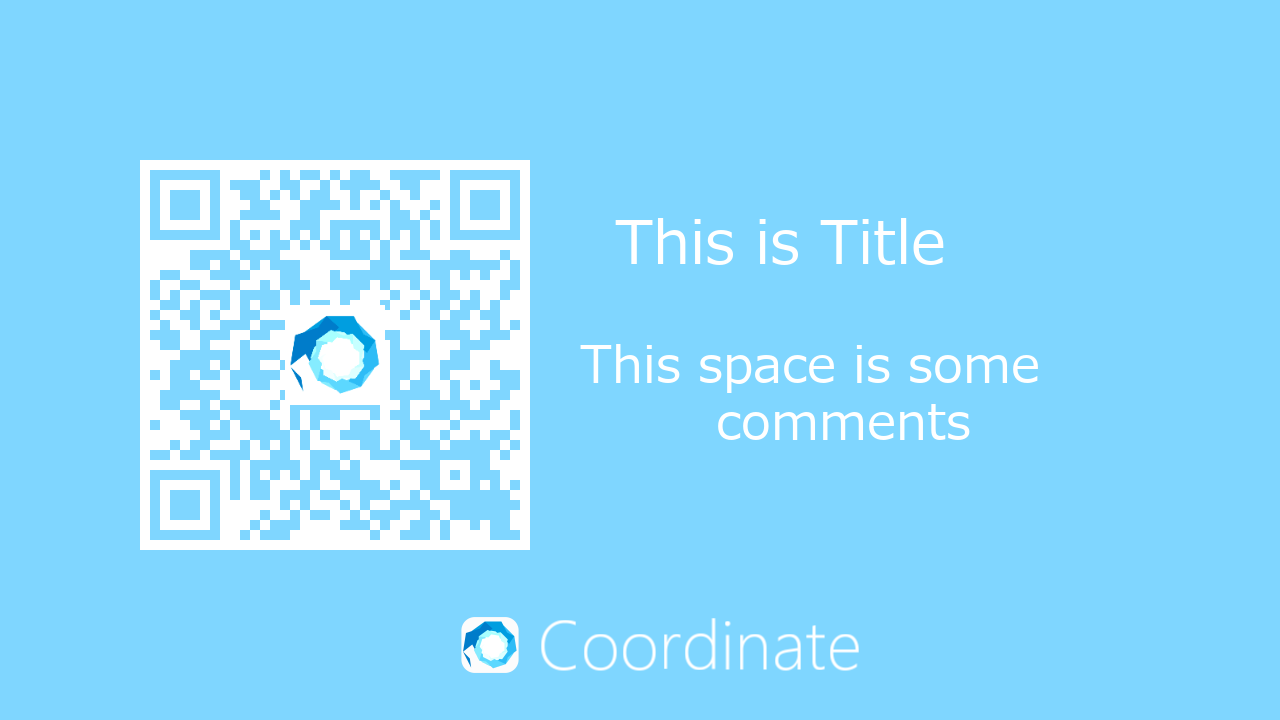
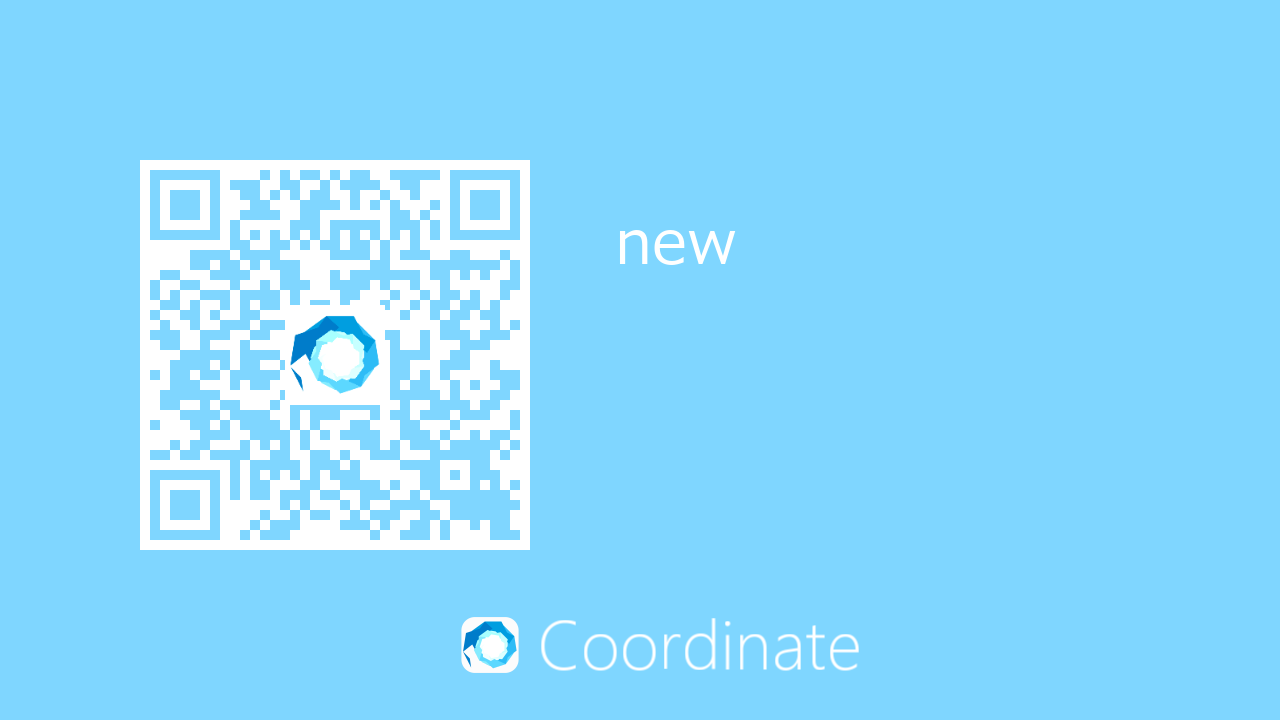
1

Changed region(s): [[0.4375, 0.4583, 0.8125, 0.6111], [0.4688, 0.3056, 0.75, 0.3667]]

diff --git a/templates/qr_page.html b/templates/qr_page.html
@@ -22,7 +22,7 @@
         <!-- <img src="{{ url_for('static', filename='unique_card.png') }}" alt="qr"> -->
     </p>
     <div class="wrap">
-        <img id="img1" class="img-thumbnail" src="../static/unique_card.png" alt="qr">
+        <img id="img1" class="img-thumbnail" src="{{ url_for('static', filename='unique_card.png')}}" alt="qr">
         <div class="sns-area">
             <a href="" id="tw-btn"><i id="icon1" class="fab fa-twitter fa-3x"></i></a>
             <a href="" id="fb-btn"><i id="icon2" class="fab fa-facebook-square fa-3x"></i></a>
@@ -34,16 +34,19 @@
         <input type="text" id="comment" value="{{ result[3] }}">
     </div>
     <script>
-        var url = location.href;
-        var title = document.getElementById("title").value;
-        var comment = document.getElementById("comment").value;
-        var twitter = document.getElementById("tw-btn").value;
-        var fb = document.getElementById("fb-btn").value;
-        var line = document.getElementById("li-btn").value;
+        window.onload = function () {
+            var url = location.href;
+            var title = document.getElementById("title").value;
+            var comment = document.getElementById("comment").value;
+            var twitter = document.getElementById("tw-btn").value;
+            var fb = document.getElementById("fb-btn").value;
+            var line = document.getElementById("li-btn").value;
+            
+            twitter.href = "https://twitter.com/share?text="+title+"&url="+url;
+            fb.href = "http://www.facebook.com/share.php?u="+url;
+            line.href = "https://line.me/R/msg/text/?"+title+url;            
+        };
 
-        twitter.href = "https://twitter.com/share?text="+title+"&url="+url;
-        fb.href = "http://www.facebook.com/share.php?u="+url;
-        line.href = "https://line.me/R/msg/text/?"+title+url;
     </script>
 </body>
 </html>

diff --git a/static/qr.css b/static/qr.css
@@ -26,7 +26,70 @@
     color: rgb(43, 174, 226);
 }
 
-.container{
+#img1{
+    float: left;
+    margin-top: 90px;
+    margin-left: 20px;
+}
+
+.sns-area{
     display: flex;
-    margin-top: 100px;
+    flex-flow: column;
+}
+
+#icon1, #icon2, #icon3{
+    background-color: rgb(255, 255, 255);
+    box-shadow: 0 10px 25px 0 rgba(0, 0, 0, .2);
+    height: 100px;
+    width: 400px;
+    margin-top: 150px;
+    margin-left: 50px;
+    text-align: center;
+    padding-top: 20px;
+    border-radius: 7px;
+    color: rgb(32, 32, 32);
+}
+
+#icon1:hover, #icon2:hover, #icon3:hover{
+    color: rgb(43, 174, 226);
+}
+
+.form-none{
+    display: none;
+}
+
+@media(max-width: 1760px){
+    .sns-area{
+        display:flex;
+        flex-direction: row;
+    }
+    .wrap{
+        display: flex;
+        flex-flow: column;
+    }
+    .img-thumbnail{
+        max-width: 76%;
+    }
+    #img1{
+        margin-left: auto;
+        margin-right: auto; 
+    }
+}
+
+@media(max-width:1280px){
+    .sns-area{
+        flex-flow: column;
+        text-align: center;
+    }
+    #img1{
+        margin-left: auto;
+        margin-right: auto; 
+    }
+}
+
+@media(max-width:430px){
+    #icon1, #icon2, #icon3{
+        margin: 10px;
+        width: 100%;
+    }
 }

diff --git a/templates/qr.css b/templates/qr.css
@@ -62,6 +62,7 @@
     .sns-area{
         display:flex;
         flex-direction: row;
+        text-align: center;
     }
     .wrap{
         display: flex;

diff --git a/main_2.py b/main_2.py
@@ -160,7 +160,7 @@ def id_qr():
         img_qr_big.save('./static/qr_img.png')
 
 
-    def insert_text():    
+    def insert_text(title,comment):    
         #読み込み
         base_img = Image.open(base_path).copy()
         qr_img = Image.open(qr_path).copy()
@@ -181,15 +181,14 @@ def id_qr():
         
             return img
         
-        text = "This is Title"
+        text = title
         font_size = 60
         font_color = (255, 255, 255)
         height = 200
         width = 615
         img = add_text_to_image(base_img, text, font_path, font_size, font_color, height, width)
         
-        text = """This space is some 
-        comments"""
+        text = comment
         font_size = 50
         font_color = (255, 255, 255)
         height = 330
@@ -200,9 +199,11 @@ def id_qr():
         
         img.save("./static/unique_card.png")
 
-    generate_qrcode()
-    insert_text()
-    time.sleep(1)
+    
+    # DBに接続する。なければDBを作成する。
+    conn = sqlite3.connect(db_path)
+    # カーソルを取得する
+    c = conn.cursor()
 
     def partial_acquisition(id):#1:title,3:body_c
         #idで検索
@@ -210,6 +211,11 @@ def id_qr():
             return result
 
     result = partial_acquisition(id)
+    conn.close()    
+
+    generate_qrcode()
+    insert_text(result[1],result[3])
+    time.sleep(2)
 
     return render_template('qr_page.html',
                             result=result)
